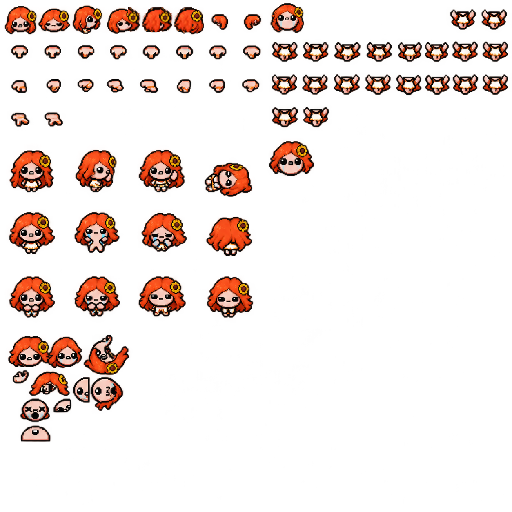
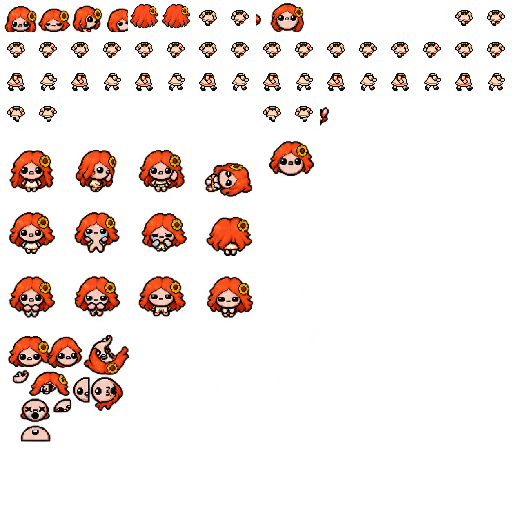
Fix runtime character frames and reaction-pack compatibility

Changed region(s): [[0.0, 0.0, 1.0, 0.25]]

diff --git a/tools/import_character_art.py b/tools/import_character_art.py
@@ -1,4 +1,4 @@
-"""Import generated character atlases; perform only resizing and UI crops.
+"""Import generated character atlases; perform resizing, frame remapping and UI crops.
 
 Usage: python tools/import_character_art.py --claude INPUT --deepseek INPUT
 Requires Pillow for development only. The game uses the resulting PNG files.
@@ -13,6 +13,7 @@ parser = argparse.ArgumentParser()
 parser.add_argument('--claude', required=True)
 parser.add_argument('--deepseek', required=True)
 parser.add_argument('--claude-back-heads', help='Edited atlas: reuse corrected top-row cell 5 for both back-head frames')
+parser.add_argument('--claude-parts', help='4x4 repair grid: rear heads, front/side/rear headless bodies')
 parser.add_argument('--deepseek-back-heads', help='Edited atlas: import only top-row cell 4')
 args = parser.parse_args()
 
@@ -46,6 +47,45 @@ for index, (key, name, source) in enumerate([
         outside = image.copy()
         outside.paste(original.crop(box), (box[0], box[1]))
         assert outside.tobytes() == original.tobytes(), 'A head patch changed unrelated art'
+    # Generated clothing occupies the alternate body cells. The engine's base
+    # walk animations use the first set, which must also contain the outfit.
+    # This is a mechanical cell copy; no new pixels are drawn.
+    dressed = image.copy()
+    for box, position in [((448, 0, 512, 32), (192, 0)),
+                          ((256, 32, 512, 96), (0, 32)),
+                          ((256, 96, 320, 128), (0, 96))]:
+        image.paste(dressed.crop(box), position)
+    if key == 'claudechan' and args.claude_parts:
+        parts = Image.open(args.claude_parts).convert('RGBA')
+        assert parts.width == parts.height
+        parts = parts.resize((1024, 1024), Image.Resampling.NEAREST)
+        cell = parts.width // 4
+
+        def fitted_part(column, row, size, origin):
+            cut = parts.crop((column * cell, row * cell,
+                              (column + 1) * cell, (row + 1) * cell))
+            # Ignore nearly transparent generation speckles when measuring a cutout.
+            bounds = cut.getchannel('A').point(lambda value: 255 if value >= 128 else 0).getbbox()
+            assert bounds, 'Repair cell must contain visible art'
+            cut = cut.crop(bounds)
+            cut.thumbnail(size, Image.Resampling.NEAREST)
+            frame = Image.new('RGBA', (32, 32))
+            frame.alpha_composite(cut, (origin[0] - cut.width // 2,
+                                       origin[1] - cut.height // 2))
+            return frame
+
+        rear = fitted_part(0, 0, (28, 28), (16, 16))
+        for x in (128, 160):
+            image.paste(rear, (x, 0))
+        for row, y in ((1, 32), (2, 64)):
+            for base in (0, 256):
+                for column in range(8):
+                    image.paste(fitted_part(column % 4, row, (18, 18), (16, 18)),
+                                (base + column * 32, y))
+        for x in (192, 224, 448, 480):
+            image.paste(fitted_part((x // 32) % 4, 1, (18, 18), (16, 18)), (x, 0))
+        for x in (0, 32, 256, 288):
+            image.paste(fitted_part((x // 32) % 4, 3, (18, 18), (16, 18)), (x, 96))
     output = ROOT / 'resources/gfx/characters/costumes' / f'character_{key}.png'
     output.parent.mkdir(parents=True, exist_ok=True)
     image.save(output)

diff --git a/docs/HANDOFF.md b/docs/HANDOFF.md
@@ -1,43 +1,49 @@
 # Handoff for Claude and contributors
 
-Updated 2026-10-23 (Japan time), v0.4-dev. Read this before continuing. This is a Codex implementation handoff; no separate Claude session reviewed this change.
+Updated 2026-10-23 (Japan time), v0.4-dev. This is a Codex implementation handoff. No separate Claude session reviewed these changes; no Claude CLI or connected Claude service was available.
 
-## Current work
+## Implemented content
 
-- PR #1 (collaboration/CI) and PR #2 (RORICO444 item icons) were reviewed and merged, preserving contribution history. PR #2 originally targeted `setup/collaboration`; it was retargeted to `main` after #1 merged.
-- Added `Support Ticket`: six-charge shop active, 3 coins for risk -20, no payment/charge if coins are insufficient or risk is zero; Car Battery cannot charge twice.
-- Added playable `DeepSeek-chan`: 2 red + 1 soul heart, 3 coins, 1 key, pocket Support Ticket, damage x0.85, firing interval x0.85 and blue tears. A no-hit room reduces shared risk by two extra points once for the team.
-- Added `scripts/story.lua`: four original localised chapters. `Risk.state.storySeen` is a saved bitmask; `reviewApproved` unlocks the last caption on the next room. Chapters do not pause the run or replace vanilla ending files.
-- Added custom generated character atlases, portraits, names and selection animations for both characters. The owner correctly noted the original gameplay build still looked like Isaac; these new assets now replace its skin paths. **The new art has not yet been verified in the running game.** See `ART_GENERATION.md` and `ART_SPEC.md`.
-- An offline visual pass then corrected Claude's two rear-facing head frames and DeepSeek's bald rear-head frame. Imagegen supplied the corrected art; the importer copies only those cells and verifies that all unrelated RGBA pixels remain identical. The corrected sheets have been inspected offline and installed; their in-game animation checks remain open.
-- Fixed Silent Update's RNG lifecycle: `MC_POST_NEW_LEVEL` can fire before game start. Each floor now seeds before drawing; continue keeps its saved multiplier.
-- Fixed early-review story progression: approving an appeal on floor one no longer suppresses stages 3 and 5. Both later chapters have approved-route dialogue in en/zh/ja and share the original saved chapter bits.
-- Windows checks now reject the Python Store placeholder and force UTF-8. Asset checks validate PNG dimensions, exact item-icon regeneration, item pools, character paths and ANM2 frame bounds. Symmetry failures now return a failing exit status.
+- PR #1 (collaboration/CI) and PR #2 (RORICO444 item icons) were reviewed and merged, preserving contribution history. PR #2 was retargeted from `setup/collaboration` to `main` after #1 merged.
+- Support Ticket: six-charge shop active; pay 3 coins for risk -20. Insufficient coins or zero risk preserve money and charge. Car Battery cannot bill twice.
+- DeepSeek-chan: 2 red hearts and 1 soul heart, 3 coins, 1 key, pocket Support Ticket, damage x0.85, firing interval x0.85, blue tears. A no-hit room reduces shared risk by two extra points once for the team.
+- The Appeal Queue: four original captions in en/zh/ja. `Risk.state.storySeen` is a saved bitmask. Approval unlocks its caption in the next room, while stages 3 and 5 retain their own approved-route dialogue. Captions do not pause the game or replace vanilla endings.
+- Both characters have generated custom atlases, portraits, names and selection assets. See `ART_GENERATION.md` for prompts, provenance and frame importing. These are first-pass game sprites, not downloaded Bilibili artwork.
+- Optional Reactions Port Pack compatibility registers empty fallback costume lists for these two characters only. It preserves explicitly supplied character support, sounds/music and other players. Without this, that pack gives unknown characters a default Isaac face. Never fix this by clearing every player costume or editing another mod.
+- DeepSeek clothing is mapped into the base body cells. Claude's rear heads and headless walking bodies were regenerated as isolated parts and fitted inside engine cells after runtime testing exposed cropping and miniature heads in the original atlas.
+- Silent Update seeds its floor RNG before drawing, including the pre-start `MC_POST_NEW_LEVEL` callback, and preserves the saved multiplier on continue.
+- Windows checks skip Python Store stubs and force UTF-8. Asset checks cover deterministic item icons, dimensions, pools, character paths and ANM2 bounds.
 
-## Validation and limits
+## Actual validation
 
-- `bash tools/check.sh`: passes using Lua 5.3 (`texlua`) and Python 3.10 on Windows. All four Lua tests pass, including new item boundaries, duplicate use, co-op risk, seeded floor lifecycle, saved story chapters and exact EID registration counts.
-- All 21 PR #2 icons regenerate byte-for-byte; the new Support Ticket icon does too.
-- Repentance+ **1.9.7.17** successfully loaded the installed gameplay build. The visible run was DeepSeek-chan with 3 coins, 1 key and pocket Support Ticket; risk HUD and the first story caption rendered. A later view showed 0 coins and 0 risk, consistent with a ticket activation.
-- That view exposed a subtitle/EID overlap. Subtitles were moved above the lower HUD; the revised position still needs runtime verification.
-- A pre-existing `stackable items v2` mod throws `resources/scripts/main.lua:154: table index is nil`; do not attribute that error to this mod. Do not modify or disable unrelated mods without checking with the owner.
-- The owner stopped Computer Use with physical Escape. No further app input was sent after that stop. Final sprite-animation checks, save/continue in game, vanilla Repentance and local co-op remain unverified. Keep these limitations visible.
-- On the next continuation, the previous test game was closed normally. All 100 reviewed application files, including both character sheets and selection assets, were installed in the existing mod folder and verified against the source with matching hashes. The runtime checkout is now connected to `codex/appeal-story`; notes and saves remain untouched.
-- Restart is currently blocked by Steam's explicit Cloud sync-failed warning, which says proceeding can permanently lose progress. Computer Use is waiting for the owner's decision before accepting that warning. No new gameplay session was started. The game process was verified absent after closing the previous session. Do not bypass the warning through an alternative launcher.
-- Tests used muted game settings. Close the game when finishing any future tests. Do not operate login dialogs or use credentials supplied in chat.
+- `bash tools/check.sh` passes under Lua 5.3 (`texlua`) and Python 3.10 on Windows: all four Lua tests, syntax, XML and assets. CI runs the same checks. Regression cases include item boundaries, Car Battery, co-op shared risk, floor seeding, early approval, saved chapters and optional reaction-pack fallbacks.
+- Repentance+ 1.9.7.17 loaded both custom characters in the existing mod installation with the owner's other mods enabled. Claude's front/rear appearance and DeepSeek's front/rear/right shooting appearance were inspected. Blue DeepSeek tears, orange Claude tears and Claude's usage-limit HUD were observed. The final corrected Claude rear silhouette rendered complete.
+- Both portraits appeared on Continue. DeepSeek continued with its custom skin; Claude also continued with custom art and without repeating the already-seen first chapter.
+- Actual pocket-item input changed DeepSeek from 3 coins / risk 2 to 0 coins / risk 0. A subsequent use attempt at 2 coins / zero risk retained 2 coins and exactly 6 pocket charges, confirmed through `GetActiveCharge(SLOT_POCKET)`.
+- A stage-3 transition after early approval displayed its approved-route second chapter. The final subtitle position (`screen height - 105`) was checked on a later stage-3 transition: it was separated from Loadout's fixed bottom prompt. EID occupies the upper area; the original EID/subtitle overlap was removed.
+- A Claude D4 use with an added passive completed without a mod error and retained custom art; this is a single smoke case, not comprehensive costume coverage.
+- Test aiming and pocket use used temporary session-only input callbacks through the game's debug console. They were never installed or committed; the final callback was removed before shutdown.
+- Steam's Cloud sync-failed warning was accepted only after the owner explicitly authorised proceeding. It remains a Steam sync issue, not a mod fix. Tests remained muted; the game was closed normally afterward.
 
-## Next exact steps
+## Remaining release checks
 
-1. Fetch and confirm the feature branch and installed files still match. The art installation itself is complete; do not recopy or recreate a second mod folder. Back up the installed previous version before any further overwrite.
-2. Resolve Steam Cloud sync or obtain the owner's explicit decision about its launch warning. Then launch muted, start a seeded test, and inspect both characters: all four head directions, shooting, walk, hurt, death, flying, stage/boss portraits and selection labels. Inspect custom-sheet cells carefully; generated art may need pixel alignment and back-head corrections. Test D4, transformation costumes and skin-colour effects before calling the art complete.
-3. Test Support Ticket at risk 0, risk 10/50, 2/3 coins, Car Battery; confirm charge behaviour. Continue a saved run and check the story does not repeat. Check EID layout at the revised subtitle location.
-4. Keep development via branches and PRs. Fetch before editing; preserve concurrent contributions. Do not publish a Workshop release yet.
-5. The next designed content slice is in `STORY.md`: Offline Cache, Gemini-chan and the neutral Queue Clerk. Implement one small feature at a time with en/zh/ja text and a specific game test.
+- Normal Repentance, local co-op, complete runs to Mom, no-hit bonus in the real game, Car Battery and positive-risk insufficient-funds engine cases remain to be checked. Offline tests cover these logic branches but cannot prove engine behaviour.
+- Inspect all walking/shooting directions, hurt/death/flying frames, boss/stage transition portraits, skin-colour items, transformations and more D4 outcomes. The art is usable first-pass work, not final animation polish. Separate hair costumes may be needed to preserve the design through skin-changing items.
+- Check the final chapter and approved caption with ordinary room transitions, and test all languages at different screen/HUD settings. Saved-state logic has regression coverage; only a subset of chapters has been observed in game.
+- The pre-existing `stackable items v2` startup error (`resources/scripts/main.lua:154: table index is nil`) still occurs. Another existing mod's entities2 assertion and resource-cache shutdown warnings are unrelated. Do not change or disable unrelated mods without checking with the owner.
+- Do not publish a Workshop release yet. Design-license/permission evidence and the full acceptance milestone in `GOALS.md` are still open.
 
-## Project conventions
+## Next work
 
-`main.lua` loads modules onto one shared mod object. Constitution damage cancellation must register before risk damage bookkeeping. Persistent run state goes in `Risk.state`. Use seeded RNG, no network calls or telemetry in gameplay, and content XML rather than replacing vanilla resources.
+1. Fetch and review remote changes before editing. Reuse the existing source/runtime locations; do not create duplicate mod folders. Back up the installed previous version using the owner's local backup workflow before any overwrite.
+2. Work through the release checks above, keeping actual observations separate from stub tests. Test muted and close owned game sessions afterward.
+3. The next content ideas are Offline Cache, Gemini-chan and the neutral Queue Clerk in `STORY.md`. Implement one small feature at a time, with en/zh/ja text and a specific game test.
+4. Work through branches/PRs and update this handoff with meaningful project-state changes. Keep source, GitHub and runtime assets synchronized.
 
-Code/item icons are MIT; character design/art terms are separate in `resources/ART_LICENSE.md`. Design credits: ZipZipPipe, plus 上善无形 for DeepSeek. No official logos. Enemies are infrastructure and abuse mechanisms, not populations. Keep notes, credentials, personal images, saves, machine-specific paths and backups out of GitHub. Prior-version backups are local and verified; their paths are deliberately absent from this repository.
+## Boundaries and conventions
 
-The owner supplied Bilibili video BV1yUJZ6WEpg as inspiration. Public page/API retrieval failed in this session, so no claim was made that its downloadable files or license had been inspected, and no video pixels were used.
+`main.lua` loads modules onto one shared mod object. Constitution's damage cancellation must register before risk damage bookkeeping. Run state belongs in `Risk.state`. Use seeded RNG; no network calls or telemetry during gameplay. Use content XML, not global vanilla-resource replacements.
+
+Code/item icons are MIT. Character design/art terms are separate in `resources/ART_LICENSE.md`; credits include ZipZipPipe and 上善无形. No official logos. Enemies are infrastructure and abuse mechanisms, not populations. Keep notes, credentials, personal images, saves, machine paths and backup contents outside GitHub.
+
+The owner supplied Bilibili video BV1yUJZ6WEpg as inspiration. Its public page/API could not be retrieved in this session, so no downloadable-file or licence inspection is claimed and no video pixels were used. Do not operate login dialogs or use credentials supplied in chat.

diff --git a/docs/GOALS.md b/docs/GOALS.md
@@ -7,15 +7,15 @@ The owner wants new item and character ideas implemented with corresponding artw
 | Requirement | Current evidence | Remaining work |
 |---|---|---|
 | Review contributions | PR #1 and #2 reviewed and merged | Preserve subsequent contributions through PRs |
-| Add an item | Support Ticket implemented, registered, pooled, localised and regression-tested | Verify real-game charges, Car Battery and insufficient-coins cases |
+| Add an item | Support Ticket implemented, registered, pooled, localised and regression-tested | Actual use and zero-risk/2-coin charge retention observed; Car Battery and positive-risk insufficient-coins engine checks remain |
 | Add a character | DeepSeek-chan implemented; initial resources and pocket item observed in Repentance+ | Verify no-hit bonus in game, local co-op and a complete run |
-| Corresponding art | Claude/DeepSeek atlases, portraits, names and selection assets installed | Verify every animation, back-head frames, costumes and UI in game; polish failures |
-| Story | Four saved chapters and early-approval route variants in en/zh/ja | Verify final subtitles with EID and real-game save/continue |
-| Base-game compatibility | Repentance+ 1.9.7.17 loaded the earlier gameplay build; Lua 5.3 and CI checks pass | Current art build, normal Repentance, local co-op, full-run and costume checks remain open |
+| Corresponding art | Claude/DeepSeek atlases, portraits, names and selection assets installed | Front/rear game views and Continue portraits observed; complete animation/costume/UI matrix remains |
+| Story | Four saved chapters and early-approval route variants in en/zh/ja | Subtitle/Loadout separation and no repeat of chapter one on continue observed; remaining chapters/languages remain |
+| Base-game compatibility | Repentance+ 1.9.7.17 loaded the corrected art build; Lua 5.3 and offline checks pass | Normal Repentance, local co-op, full-run and comprehensive costume checks remain open |
 | GitHub/local synchronisation | Feature work is in draft PR #3; installed files match reviewed source | Keep branch commits and installed assets matched after each update |
 | Claude collaboration/handoff | `HANDOFF.md` records implementation, tests, gaps and next content ideas | No independent Claude review has occurred; next session should start from the handoff |
 
-Steam Cloud currently blocks restarting the game with an explicit possible-progress-loss warning. Wait for sync recovery or the owner's decision before accepting it. Do not equate the stopped launch with a successful runtime test.
+The owner explicitly authorised accepting Steam's Cloud sync warning, and runtime tests proceeded. This does not resolve Steam Cloud itself. See `HANDOFF.md` for exact evidence and limits.
 
 Always test muted and close owned game sessions afterward. Keep backups verified locally, notes and saves in place, and credentials, personal images and machine-specific data outside GitHub.
 

diff --git a/docs/ART_GENERATION.md b/docs/ART_GENERATION.md
@@ -23,3 +23,11 @@ The image tool does not guarantee per-cell correctness. An offline visual pass f
 The correction prompt specified the 32x32 cells at x=128..159 and x=160..191, y=0..31, requested back hair with no eyes, mouth or skin disk, and required the rest of the atlas to remain unchanged. Claude's patch requested orange-red hair and the sunflower silhouette; DeepSeek's requested navy hair and fin ornaments, matching her adjacent rear frame. The importer takes only the designated generated cells and checks that all other RGBA pixels are identical to the input. Both corrected sheets were inspected offline after import.
 
 These remain first-pass assets. Inspect all four head directions, special poses, walking, hurt/death and costume overlays in game. PNG and animation-bound validation checks file structure, not the correctness of a rendered engine pose. Steam's Cloud sync-failed warning currently blocks the final runtime pass, pending the owner's decision. The game has been closed; the corrected art is installed in the existing mod location.
+
+## Runtime-driven frame repair
+
+Repentance+ testing exposed two defects hidden by file-level validation: Reactions Port Pack supplies an Isaac-face fallback for unknown custom characters, and the generated Claude walk cells contained miniature heads. DeepSeek's dressed alternate cells were mechanically copied to the base walk cells. `scripts/compatibility/reaction_pack.lua` registers empty fallback costume lists only for these two player IDs, preserving any explicit support supplied by a reaction pack and leaving its sounds/music intact.
+
+A subsequent imagegen repair requests an evenly spaced 4x4 grid: rear head cutouts in the first row, and headless cream/orange dress walk poses (front, side, rear) in the remaining rows. These are production patches to the generated Claude art, not downloaded Bilibili assets. The importer must fit each complete cutout inside its engine cell before installation; a source-image cell may never be assumed aligned without inspection.
+
+The repair prompt specifies a square 4x4 grid without grid lines: row zero contains complete rear-facing orange-haired heads with a sunflower and no visible face; rows one, two and three contain four alternating front, side and rear walking poses, all headless, in a cream dress with a black collar and orange trim. Every sprite must remain within its cell with transparent padding. `--claude-parts` normalizes this generated grid, measures visible cutouts at alpha >= 128 to ignore faint stray pixels, and fits the rear heads inside 28x28 pixels and bodies inside 18x18 pixels in their 32px engine cells. Only these repair cells are imported; special poses and UI portraits retain their previous artwork. The built-in imagegen tool was used; no API key or CLI fallback was used.

diff --git a/docs/ART_SPEC.md b/docs/ART_SPEC.md
@@ -4,7 +4,7 @@
 
 - The 21 collectible/trinket icons contributed by RORICO444 in PR #2 are now included. They are 32x32 RGBA PNGs generated by `tools/make_placeholders.py`.
 - Support Ticket adds an original paper ticket with a cyan stripe and green approval stamp, in the same generator. It has no company logo or third-party illustration.
-- Claude and DeepSeek now have custom 512x512 sprite atlases, stage portraits, names and character-selection assets. These generated first-pass sheets replace the vanilla Isaac skin references. Verify head directions, walking, hurt/death, transformations and costume overlays in game; separate hair costumes remain future polish. Design references: ZipZipPipe, and 上善无形 for DeepSeek.
+- Claude and DeepSeek now have custom 512x512 sprite atlases, stage portraits, names and character-selection assets. These generated first-pass sheets replace the vanilla Isaac skin references. Verify head directions, walking, hurt/death, transformations and costume overlays in game; separate hair costumes remain future polish. Reactions Port Pack fallback compatibility and engine-cell clothing/rear-head repairs are included; initial game views passed, with the full animation matrix still pending. Design references: ZipZipPipe, and 上善无形 for DeepSeek.
 - An offline frame review corrected the three rear-head cells that contained faces or a bald disk. The importer preserves all pixels outside those cells. Engine animation verification remains pending.
 - `python tools/check_assets.py` regenerates the icons in a temporary directory and checks exact PNG bytes, dimensions and item-pool references. Custom replacement art must update the generation/validation policy deliberately.
 

diff --git a/docs/TESTING.md b/docs/TESTING.md
@@ -63,7 +63,7 @@ What the docs can't tell us is whether the gameplay *feels* right. That's what t
 - Start as DeepSeek-chan: 3 coins, 1 key, pocket Support Ticket; blue tears and the stated damage/fire-interval tradeoff. Test a clean room, a hit room and two DeepSeek players (shared risk bonus only once).
 - `giveitem Support Ticket`: with 2 coins or risk 0, no coins/charge spent; with 3 coins and positive risk, spend 3 and lower risk by up to 20. Repeat with Car Battery.
 - See story chapters at run start, stage 3, stage 5, and the next room after successful review. Save and continue: completed chapters stay completed. Hide the HUD: captions hide too.
-- Inspect both custom character skins, four head directions, all movement/hurt/death poses, character select, stage/boss portraits and names. Check D4 and costume interactions. **New character art runtime checks are pending.**
+- Inspect both custom character skins, four head directions, all movement/hurt/death poses, character select, stage/boss portraits and names. Check D4 and costume interactions. **Initial custom-art runtime checks passed in Repentance+; the complete animation/costume matrix is pending. See HANDOFF.md for exact observations.**
 - Subtitle position was moved above the lower HUD after observing EID overlap; confirm it with EID enabled.
 - Use Support Ticket on the first floor, then reach stage 3 and stage 5: both later chapters must still appear with their approved-route dialogue. Continue after all four chapters: none should repeat.
 - Repentance+ 1.9.7.17 gameplay startup was observed on 2026-10-23. This is not evidence of a full-run pass, normal Repentance compatibility or local co-op correctness.

diff --git a/CLAUDE.md b/CLAUDE.md
@@ -9,7 +9,7 @@ Several people work on this repo: the owner and their friends in China, each pos
 - Keep each PR to one item, enemy or fix.
 - Before committing, run `bash tools/check.sh`. It needs Lua 5.3+ (`apt-get install -y lua5.4`; if that fails, `texlua` from TeX Live also works and the script finds it). CI runs the same script on every PR.
 - Adding an item, trinket, pill or enemy: follow the checklist in [CONTRIBUTING.md](CONTRIBUTING.md) (same as HANDOFF's "New item checklist"). Player-facing text needs English, Simplified Chinese and Japanese.
-- Nothing here has been run in the real game yet. Don't claim something works in game unless someone tested it; say what the stubbed tests do and don't cover.
+- Repentance+ smoke tests have been run; see docs/HANDOFF.md for exact observations and remaining gaps. Do not extend that evidence to untested features or versions.
 - When the project state changes (something tested in game, a system finished), update `docs/HANDOFF.md` in the same PR.
 
 ## Content rules (agreed with the owner)

diff --git a/CHANGELOG.md b/CHANGELOG.md
@@ -65,3 +65,5 @@ Also: in-game test checklist (`docs/TESTING.md`), goals (`docs/GOALS.md`).
 - Risk score and random proxy IP per floor, enemy HP scaling, hydra respawns.
 - **Ban Hammer** (active) and **Residential IP** (passive).
 - EID descriptions in English, Chinese and Japanese.
+
+- Runtime art fixes: preserve custom faces with Reactions Port Pack, remap DeepSeek clothing, fit repaired Claude rear heads and headless body frames into engine cells, and move captions above the Loadout prompt.
